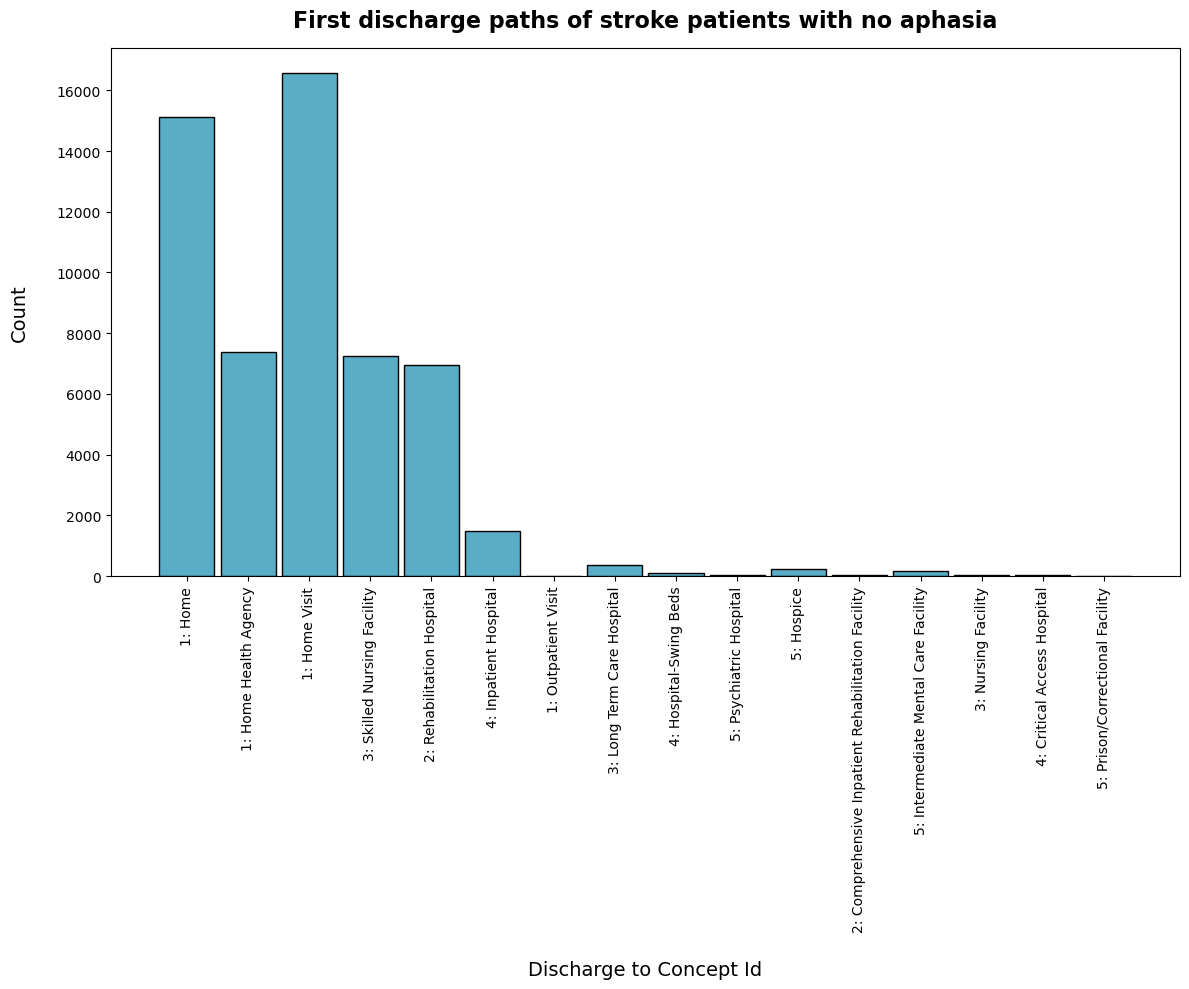
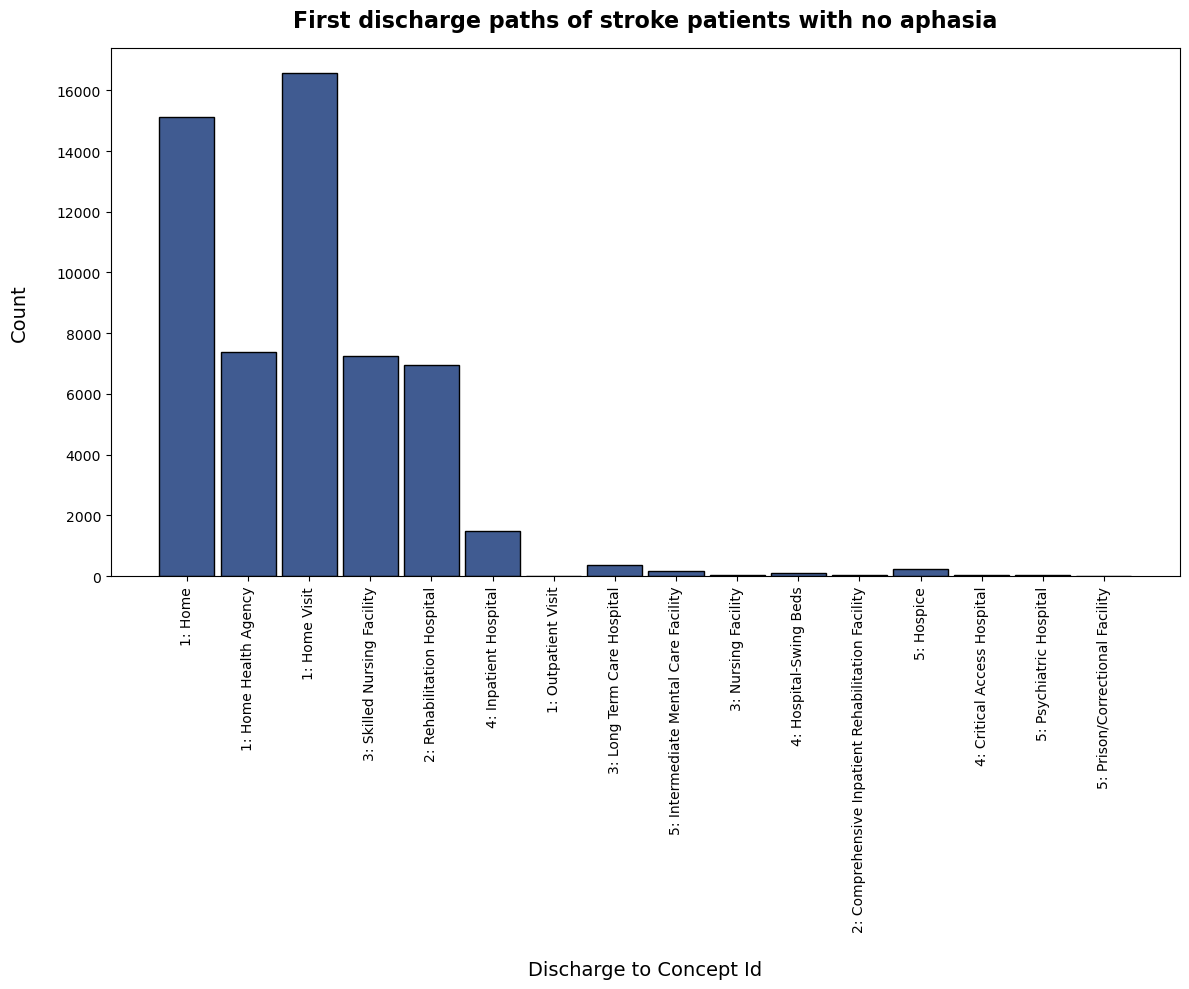
2nd plot update

diff --git a/src/plot_first_discharge_aphasia_TRUE.py b/src/plot_first_discharge_aphasia_TRUE.py
@@ -19,6 +19,9 @@ WHERE has_aphasia = 1
 # run_query(con, query)
 df = read_df(con, query)
 
+# create copy of discharge_to column
+df["discharge_grouped"] = df["discharge_to_concept_id"].copy()
+
 # print(df.info())
 df["discharge_to_concept_id"] = df["discharge_to_concept_id"].map(
     discharge_to_concept_id.total_id
@@ -29,11 +32,29 @@ print(
     f"There are {len(first_discharge)} types of discharge types for stroke patients with aphasia"
 )
 
-# Plot.
-fig, ax = plt.subplots()
-sns.histplot(data=df, x="discharge_to_concept_id", shrink=0.9)
-ax.tick_params(axis="x", rotation=90)
-plt.title("First discharge paths of stroke patients with aphasia")
+# discharged grouped column mapped
+df["discharge_grouped"] = df["discharge_grouped"].map(
+    discharge_to_concept_id.group_mapping)
+
+# Plot 1
+plt.figure(figsize=(12,10))
+sns.histplot(data=df, x="discharge_to_concept_id", color="#2292B5", shrink=0.9)
+plt.xticks(rotation=90)
+plt.xlabel("Discharge to Concept Id", fontsize=14, labelpad=20)
+plt.ylabel("Count", fontsize=14, labelpad=20)
+plt.title("First discharge paths of stroke patients with aphasia", fontsize=16, weight="bold", pad=15, loc="center")
 plt.tight_layout()
-plt.savefig("figs/first_discharge_aphasia_TRUE.png")
+plt.savefig("figs/first_discharge_aphasia_TRUE.png", bbox_inches="tight")
 plt.show()
+
+
+# Plot 2 - Grouped
+plt.figure(figsize=(10,10))
+sns.histplot(data=df, x="discharge_grouped", hue="discharge_grouped", palette="ocean", shrink=0.9)
+plt.xticks(rotation=90)
+plt.xlabel("Discharge_to by Categories", fontsize=14, labelpad=20)
+plt.ylabel("Count", fontsize=14, labelpad=20)
+plt.title("Grouped by category", fontsize=16, weight="bold", pad=15, loc="center")
+plt.savefig("figs/first_discharge_aphasia_TRUE_grouped.png", bbox_inches="tight")
+plt.show()
+

diff --git a/src/plot_first_discharge_aphasia_FALSE.py b/src/plot_first_discharge_aphasia_FALSE.py
@@ -36,9 +36,9 @@ print(
 df["discharge_grouped"] = df["discharge_grouped"].map(
     discharge_to_concept_id.group_mapping)
 
-#fig, ax = plt.subplots()
+# Plot 1
 plt.figure(figsize=(12,10))
-sns.histplot(data=df, x="discharge_to_concept_id", color="#2292B5", shrink=0.9)
+sns.histplot(data=df, x="discharge_to_concept_id", color="#00246D", shrink=0.9)
 plt.xticks(rotation=90)
 plt.xlabel("Discharge to Concept Id", fontsize=14, labelpad=20)
 plt.ylabel("Count", fontsize=14, labelpad=20)
@@ -47,11 +47,11 @@ plt.tight_layout()
 plt.savefig("figs/first_discharge_aphasia_FALSE.png", bbox_inches="tight")
 plt.show()
 
+# Plot 2 - Grouped
 plt.figure(figsize=(10,10))
 sns.histplot(data=df, x="discharge_grouped", hue="discharge_grouped", palette="ocean", shrink=0.9)
-#sns.histplot(data=df, x=df["discharge_to_concept_id"].map(group_mapping), shrink=0.9)
 plt.xticks(rotation=90)
-plt.xlabel("Discharge to by Categories", fontsize=14, labelpad=20)
+plt.xlabel("Discharge_to by Categories", fontsize=14, labelpad=20)
 plt.ylabel("Count", fontsize=14, labelpad=20)
 plt.title("Grouped by category", fontsize=16, weight="bold", pad=15, loc="center")
 plt.savefig("figs/first_discharge_aphasia_FALSE_grouped.png", bbox_inches="tight")

diff --git a/docs/EDA.md b/docs/EDA.md
@@ -248,7 +248,12 @@ There are 16 types of discharge types for stroke patients with no aphasia
 - 'Skilled Nursing Facility' and 'Rehavilitation Hospital' were the next most common discharge path for the stroke patients.
 - Other discharge paths are not likely to be the first discharge paths.
 
+**Plots with Aphasia**
 <img src="../figs/first_discharge_aphasia_TRUE.png" width=900>
+<img src="../figs/first_discharge_aphasia_TRUE_grouped.png" width=500>
+<br>
+<br>
+**Plots with No Aphasia**
 <img src="../figs/first_discharge_aphasia_FALSE.png" width=900>
 <img src="../figs/first_discharge_aphasia_FALSE_grouped.png" width=500>
 
